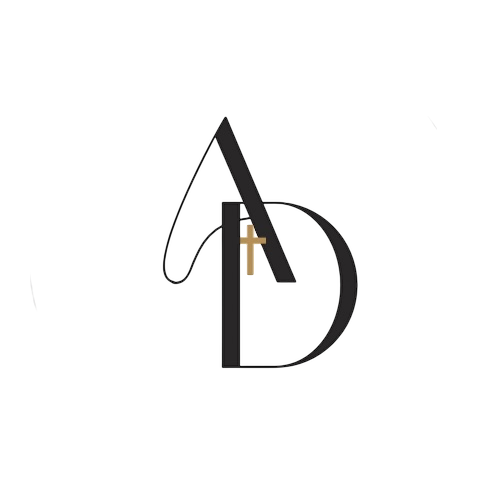
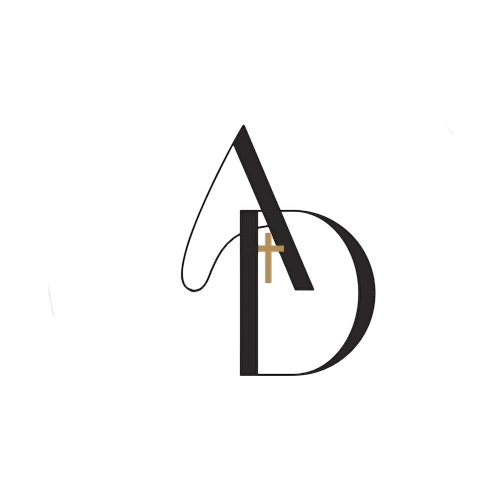
Footer monogram center + Services row lock + Portfolio limit to 3
Footer alignment
- The AD glyph in /images/aviara-monogram.png was 18px left of the PNG's
  center (visual mass at 232,241 in a 500x500 canvas). The footer column
  centers the IMAGE bbox, so the wordmark "Aviara Design Co." appeared
  ~5px right of the visible AD glyph at 140px display size — Brooklyn's
  "sitting slightly to the right" complaint.
- Re-extracted the glyph and recomposed onto a fresh 500x500 transparent
  canvas with the glyph dead center (now 250,249.5). Original PNG kept
  as aviara-monogram.original.png in case the asymmetric framing was
  intentional and we want to revert.

Services desktop row — fixed height so hovering doesn't reflow
- Different services have different description lengths and different
  image aspect ratios (Commercial Interior Design's photo is 393x490
  where the others are 393x524). With only min-h on each column the
  taller content drove the row height, so every hover/click shifted
  the page below.
- Lock the grid row to lg:h-[34rem]; both columns get h-full. INQUIRE
  CTA gets mt-auto so trailing whitespace lives above the button, not
  below it.
- Render all 5 service images stacked and crossfade via opacity instead
  of swapping <Image src> on click. Eliminates the brief blank flash
  while next/image refetches a new src — likely the "glitches when you
  click on it" she saw on the new 4th service.

Portfolio
- Homepage Portfolio section now shows the first 3 projects only;
[…]

Changed region(s): [[0.33, 0.24, 0.75, 0.75], [0.3, 0.51, 0.33, 0.54]]

diff --git a/aviara-site/src/components/Services.tsx b/aviara-site/src/components/Services.tsx
@@ -170,17 +170,34 @@ export default function Services() {
           {/* Desktop side detail panel — hidden on mobile, where each row
               expands inline above. */}
           <Reveal delay={100} className="hidden lg:block lg:col-span-7">
-            <div className="grid sm:grid-cols-5 gap-6 items-stretch" data-testid="service-detail">
-              <div className="sm:col-span-3 photo-frame relative aspect-[4/5] sm:aspect-auto bg-linen overflow-hidden min-h-[26rem]">
-                <Image
-                  src={current.imageUrl}
-                  alt={current.imageAlt}
-                  fill
-                  sizes="(min-width: 1024px) 35vw, (min-width: 640px) 60vw, 100vw"
-                  className="object-cover transition-opacity duration-300"
-                />
+            {/* Lock the grid row to a fixed height at lg+ so switching between
+                services (varying description length, varying image ratios)
+                doesn't reflow the page. Both columns inherit the row height
+                via items-stretch + h-full. INQUIRE pins to the bottom via
+                mt-auto so trailing whitespace lives between the features list
+                and the button, never below it. */}
+            <div className="grid sm:grid-cols-5 gap-6 items-stretch lg:h-[34rem]" data-testid="service-detail">
+              <div className="sm:col-span-3 photo-frame relative aspect-[4/5] sm:aspect-auto bg-linen overflow-hidden h-full">
+                {/* Render every service image stacked and crossfade via opacity
+                    so clicking a different service doesn't flash blank while
+                    next/image loads the new src. One-time first-paint cost,
+                    instant tab switches after. */}
+                {services.map((svc, i) => (
+                  <Image
+                    key={svc.slug}
+                    src={svc.imageUrl}
+                    alt={svc.imageAlt}
+                    fill
+                    sizes="(min-width: 1024px) 35vw, (min-width: 640px) 60vw, 100vw"
+                    className={[
+                      "object-cover transition-opacity duration-300",
+                      i === active ? "opacity-100" : "opacity-0",
+                    ].join(" ")}
+                    priority={i === 0}
+                  />
+                ))}
               </div>
-              <div className="sm:col-span-2 bg-bone p-7 md:p-8 flex flex-col min-h-[28rem]">
+              <div className="sm:col-span-2 bg-bone p-7 md:p-8 flex flex-col h-full">
                 <p className="eyebrow">{`Service 0${active + 1}`}</p>
                 <h3 className="mt-3 font-display text-2xl md:text-3xl text-ink">
                   {current.name}
@@ -196,7 +213,7 @@ export default function Services() {
                     </li>
                   ))}
                 </ul>
-                <a href={s.inquireCtaHref} className="btn btn-outline mt-8 self-start">
+                <a href={s.inquireCtaHref} className="btn btn-outline mt-auto self-start">
                   {s.inquireCtaLabel}
                 </a>
               </div>

diff --git a/aviara-site/src/components/Portfolio.tsx b/aviara-site/src/components/Portfolio.tsx
@@ -35,7 +35,7 @@ export default function Portfolio() {
           className="mt-16 grid sm:grid-cols-2 lg:grid-cols-3 gap-6 md:gap-8"
           data-testid="portfolio-grid"
         >
-          {projects.map((p, i) => (
+          {projects.slice(0, 3).map((p, i) => (
             <Reveal key={p.slug} as="li" delay={i * 100}>
               <a
                 href={`/portfolio/${p.slug}/`}